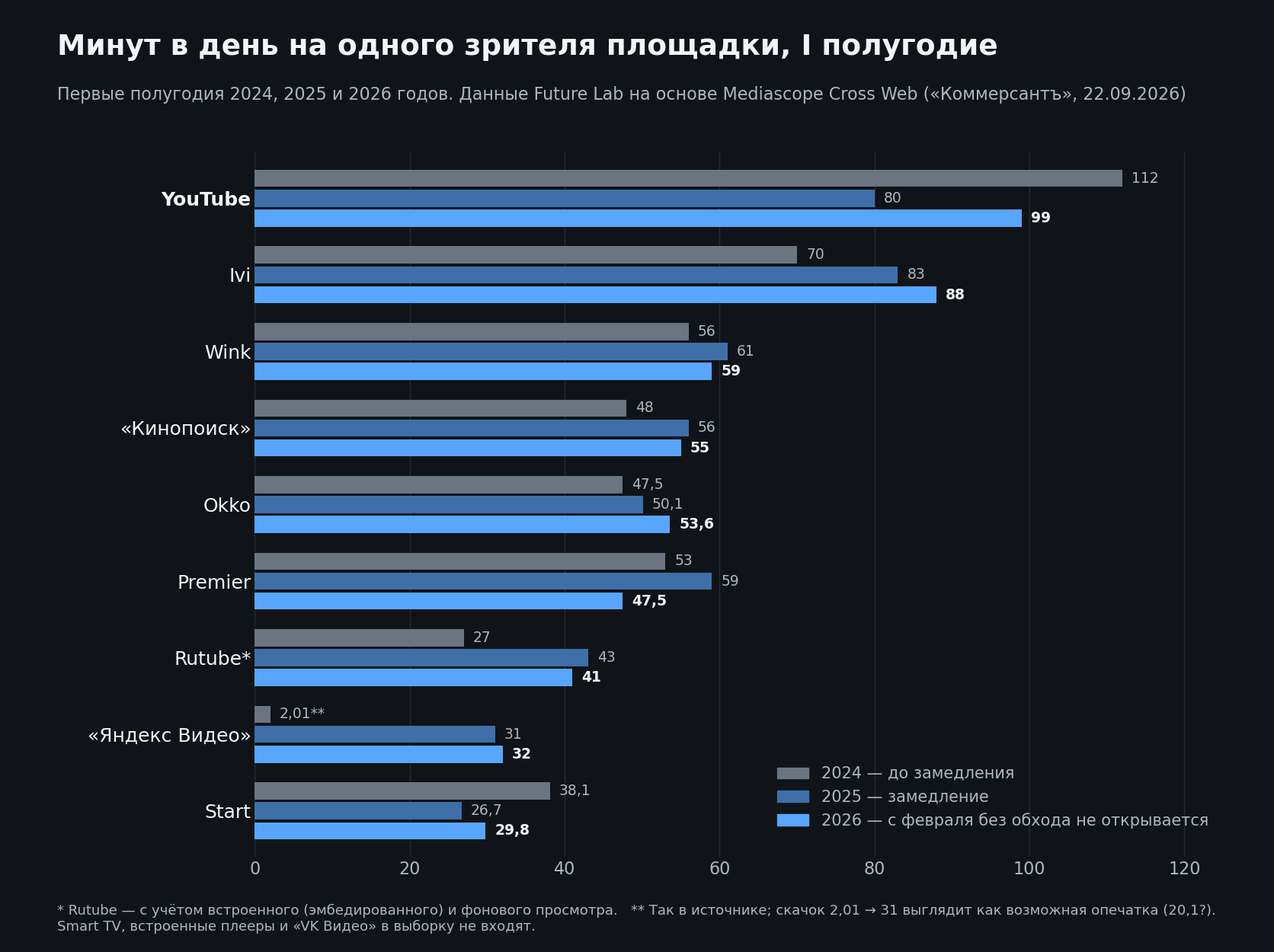
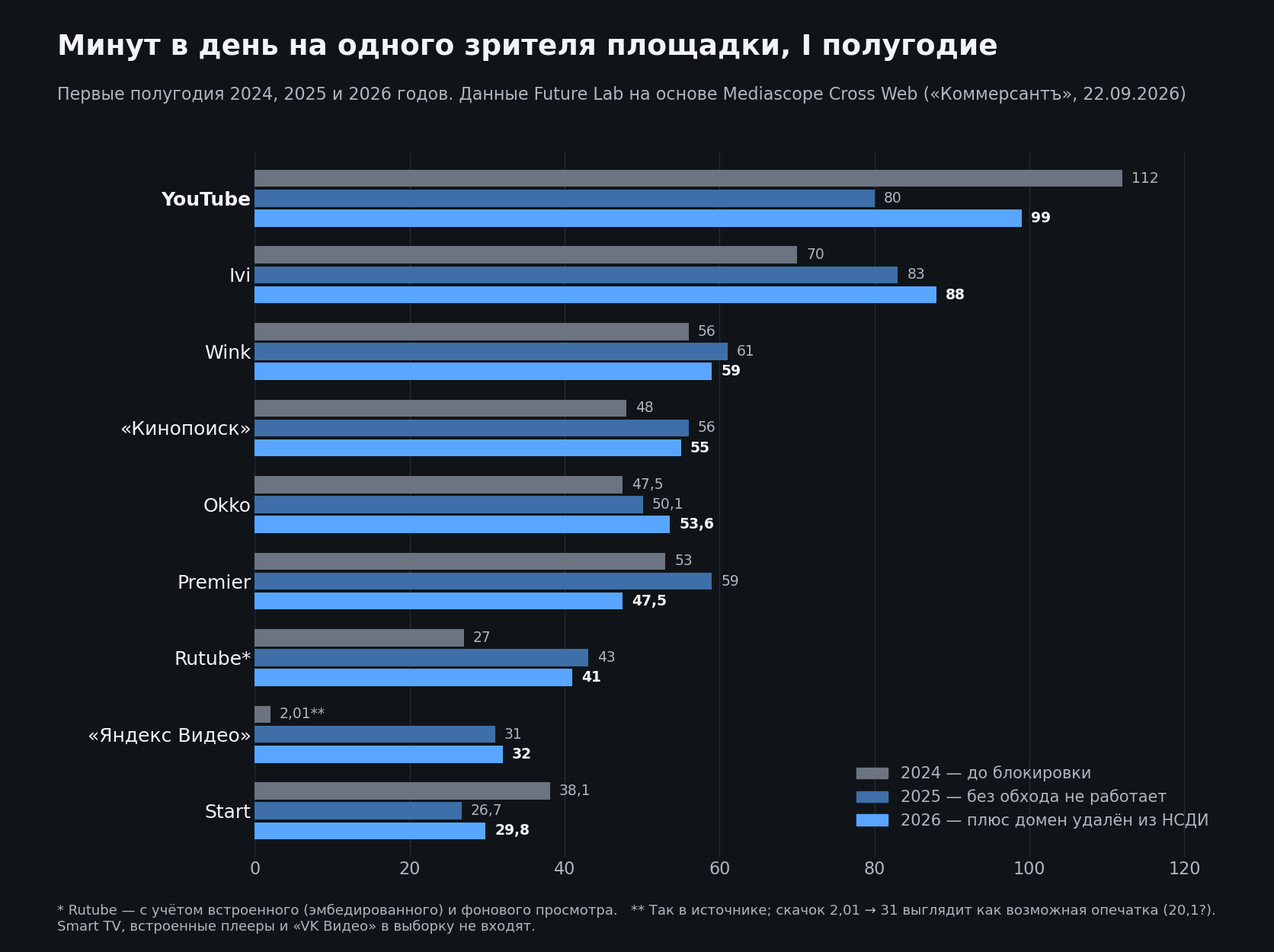
YouTube в I полугодии 2026: блокировка с августа 2024, а не с февраля 2026
YouTube в России без обхода не работает с августа 2024 года; удаление домена из НСДИ 10 февраля 2026 — дополнительный слой, а не начало блокировки. Исправлены шапка, хронология, итог и гипотеза о составе аудитории (оба полугодия, 2025 и 2026, прошли под блокировкой), легенда диаграммы по площадкам и ссылка из заметки о НСДИ.

Changed region(s): [[0.5909, 0.78, 0.9641, 0.8736]]

diff --git a/DPI/youtube-video-consumption-h1-2026.md b/DPI/youtube-video-consumption-h1-2026.md
@@ -28,14 +28,14 @@ link: https://www.kommersant.ru/doc/8971978
 ![[youtube-h1-2026-header.webp]]
 
 > [!info] О чём заметка
-> 22 сентября 2026 года «Коммерсантъ» опубликовал исследование Future Lab: в первом полугодии 2026 года зрители YouTube в России проводили на нём в среднем 99 минут в день, на 24% больше, чем годом раньше. При этом с февраля 2026 года YouTube в России без обхода блокировки не открывается. Здесь разобраны цифры по всем площадкам, спор Rutube с исследователями и главный вопрос, который задают читатели: как вообще можно посчитать YouTube, если его смотрят через VPN или Zapret. Как именно YouTube отрезали в феврале, описано в заметке [[DPI/nsdi-domain-removal-2026|НСДИ как рубильник]].
+> 22 сентября 2026 года «Коммерсантъ» опубликовал исследование Future Lab: в первом полугодии 2026 года зрители YouTube в России проводили на нём в среднем 99 минут в день, на 24% больше, чем годом раньше. При этом с августа 2024 года YouTube в России без обхода блокировки не открывается. Здесь разобраны цифры по всем площадкам, спор Rutube с исследователями и главный вопрос, который задают читатели: как вообще можно посчитать YouTube, если его смотрят через VPN или Zapret. Как в феврале 2026 года к блокировке добавилось удаление домена YouTube из национальной DNS, описано в заметке [[DPI/nsdi-domain-removal-2026|НСДИ как рубильник]].
 
 > [!warning] Статус данных
 > Все цифры по площадкам взяты из исследования Future Lab в пересказе «Коммерсанта» (22 сентября 2026) и перепечаток CNews, RB.ru, iXBT. Сам отчёт Future Lab публично не опубликован, поэтому точные формулировки показателей известны только по газетному тексту и таблице к нему. Future Lab входит в российскую коммуникационную группу Starlink (к спутниковому интернету SpaceX отношения не имеет). Rutube и VK с оценкой спорят и приводят собственные данные того же измерителя Mediascope. Описание методики Mediascope взято из публичных материалов компании (2017 и 2022 годы). Как устроен измеритель в 2026 году, в деталях не раскрывается.
 
 ## TL;DR
 
-- **YouTube вырос:** в первом полугодии 2026 года 99 минут в день на одного зрителя, +24% к 2025 году. Годом раньше, во время замедления, показатель упал на 28,6% (со 112 до 80 минут).
+- **YouTube вырос:** в первом полугодии 2026 года 99 минут в день на одного зрителя, +24% к 2025 году. Годом раньше, в первый полный период блокировки, показатель упал на 28,6% (со 112 до 80 минут).
 - **Весь рост рынка дал YouTube:** на крупнейших видеоплощадках среднее время выросло на 6%, до 87,7 минуты, а без YouTube упало бы на 5%. В 2025 году картина была зеркальной: −27% в целом и +32% без YouTube.
 - **Российские площадки неоднородны:** Rutube с учётом встроенных просмотров впервые просел на 4,7% (до 41 минуты), Premier на 20%, Wink и «Кинопоиск» немного. Растут Start, Okko, Ivi и «Яндекс Видео».
 - **Rutube и VK не согласны:** Rutube по данным Mediascope в расчёте на всё население заявляет рост на 9,1%, VK про отдельное приложение «VK Видео» говорит о +65% и почти 100 минутах. Все три цифры могут быть верны одновременно, потому что это разные показатели.
@@ -44,13 +44,13 @@ link: https://www.kommersant.ru/doc/8971978
 
 ## Что произошло с YouTube в 2024–2026 годах
 
-Чтобы понять цифры, нужна хронология. Первое полугодие 2024 года — последний период, когда YouTube в России работал нормально: 112 минут в день на зрителя, больше, чем у любой другой площадки в исследовании. Летом 2024 года началось замедление: провайдерское оборудование ТСПУ (Технические средства противодействия угрозам, аппаратура фильтрации трафика у операторов) стало искусственно душить скорость загрузки видео, и без средств обхода ролики грузились рывками или не грузились вовсе.
+Чтобы понять цифры, нужна хронология. Первое полугодие 2024 года — последний период, когда YouTube в России работал нормально: 112 минут в день на зрителя, больше, чем у любой другой площадки в исследовании. Летом 2024 года началось замедление: провайдерское оборудование ТСПУ (Технические средства противодействия угрозам, аппаратура фильтрации трафика у операторов) стало искусственно душить скорость загрузки видео. С августа 2024 года YouTube в России без обхода блокировки фактически не работает: официально это называли «замедлением», но на деле ролики без VPN или Zapret не грузятся.
 
-Первое полугодие 2025 года целиком пришлось на замедление. Время просмотра YouTube упало до 80 минут (−28,6%), а российские площадки получили приток зрителей: Rutube вырос с 27 до 43 минут, «Яндекс Видео», по таблице исследования, с почти нуля до 31 минуты.
+Первое полугодие 2025 года стало первым полным полугодием, когда YouTube работал только в обход блокировки. Время просмотра YouTube упало до 80 минут (−28,6%), а российские площадки получили приток зрителей: Rutube вырос с 27 до 43 минут, «Яндекс Видео», по таблице исследования, с почти нуля до 31 минуты.
 
-10 февраля 2026 года YouTube перестал открываться совсем. Домен видеохостинга убрали из НСДИ (Национальной системы доменных имён, государственной DNS-инфраструктуры), и у абонентов, которые пользуются DNS провайдера, браузер выдаёт ошибку «сайт не найден». Механика и последствия разобраны в [[DPI/nsdi-domain-removal-2026|заметке о НСДИ]]. Власти объясняли ограничения «нарушением законодательства» и «неуважением» со стороны YouTube, ссылаясь на блокировку на площадке более 200 провластных каналов.
+10 февраля 2026 года к блокировке добавился ещё один слой. Домен видеохостинга убрали из НСДИ (Национальной системы доменных имён, государственной DNS-инфраструктуры), и у абонентов, которые пользуются DNS провайдера, браузер выдаёт ошибку «сайт не найден»: теперь не открывается даже главная страница, а не только видео. Механика и последствия разобраны в [[DPI/nsdi-domain-removal-2026|заметке о НСДИ]]. Власти объясняли ограничения «нарушением законодательства» и «неуважением» со стороны YouTube, ссылаясь на блокировку на площадке более 200 провластных каналов.
 
-Первое полугодие 2026 года, таким образом, почти полностью пришлось на период, когда YouTube без обхода блокировки недоступен: VPN, [[Zapret2/Zapret2|Zapret 2]] или правка DNS. И именно в этот период время просмотра выросло до 99 минут.
+Таким образом, и первое полугодие 2025-го, и первое полугодие 2026 года YouTube был доступен только в обход блокировки: через VPN, [[Zapret2/Zapret2|Zapret 2]] или с правкой DNS. Условия доступа в двух периодах почти одинаковы, но в 2025 году время просмотра упало до 80 минут, а в 2026-м выросло до 99.
 
 ## Цифры по площадкам
 
@@ -64,7 +64,7 @@ link: https://www.kommersant.ru/doc/8971978
 
 ![[youtube-h1-2026-dynamics.png]]
 
-Проще говоря: после блокировки YouTube его зрители не стали смотреть меньше. Те, кто продолжил им пользоваться, в 2026 году проводили на нём больше времени, чем в 2025-м, хотя до уровня 2024 года (112 минут) показатель не вернулся.
+Проще говоря: второй год блокировки оказался для YouTube лучше первого. Те, кто продолжил им пользоваться, в 2026 году проводили на нём больше времени, чем в 2025-м, хотя до уровня 2024 года (112 минут) показатель не вернулся.
 
 ## Весь рынок держится на YouTube
 
@@ -72,7 +72,7 @@ link: https://www.kommersant.ru/doc/8971978
 
 ![[youtube-h1-2026-market-swing.png]]
 
-Эти две пары чисел описывают один процесс с разных сторон. В 2025 году YouTube замедлили, его зрители смотрели меньше, и это тянуло общий показатель вниз, а российские площадки росли за счёт тех, кто искал замену. В 2026 году YouTube снова набирает время, а остальные площадки в сумме теряют.
+Эти две пары чисел описывают один процесс с разных сторон. В 2025 году YouTube без обхода уже не работал, его зрители смотрели меньше, и это тянуло общий показатель вниз, а российские площадки росли за счёт тех, кто искал замену. В 2026 году YouTube снова набирает время, а остальные площадки в сумме теряют.
 
 Отраслевые эксперты, опрошенные «Коммерсантом», объясняют это так. Гендиректор Sky Rocket Agency Азалия Идрисова называет рост 2024–2025 годов неорганическим: аудитория уходила с замедленного YouTube и «пробовала всё подряд». Руководитель продуктового направления «Рейтинга Рунета» Александр Туник связывает возврат к YouTube с объёмом качественного контента и алгоритмами рекомендаций, которые у российских платформ, по его словам, «не соответствуют ожиданиям пользователей». Директор по Digital и Social Media агентства PR Partner Дамир Фейзуллов говорит, что рынок достиг насыщения и площадки теперь перераспределяют между собой уже существующее время просмотра. Это мнения, а не измерения: исследование показывает, что время на YouTube выросло, но не показывает почему.
 
@@ -120,12 +120,12 @@ Mediascope — главный российский измеритель меди
 
 Главное ограничение — показатель считается на одного зрителя площадки. Он отвечает на вопрос «сколько смотрит тот, кто смотрит», но не на вопрос «сколько людей смотрит». Судя по опубликованным данным, Future Lab охват YouTube (долю россиян, которые им пользуются) не приводит, поэтому рост на 24% нельзя читать как «зрителей стало на четверть больше».
 
-Есть правдоподобное объяснение, при котором время на зрителя растёт даже без возвращения аудитории. После полной блокировки в феврале 2026 года эпизодические зрители, которым неудобно настраивать обход, могли перестать открывать YouTube, а остались те, кто смотрит его много и готов ради этого пользоваться VPN или Zapret. Среднее по оставшимся в таком случае растёт само. Это гипотеза: чтобы её проверить, нужны данные об охвате, которых в опубликованной части исследования нет. Эксперты «Коммерсанта» говорят о возвращении зрителей к YouTube, но на измерение это утверждение не опирается.
+Есть правдоподобное объяснение, при котором время на зрителя растёт даже без возвращения аудитории. За полтора года блокировки эпизодические зрители, которым неудобно настраивать обход, могли перестать открывать YouTube, а остались те, кто смотрит его много и готов ради этого пользоваться VPN или Zapret. К 2026 году у таких зрителей обход мог стать привычной и налаженной частью жизни, а не ежедневной борьбой, как в первые месяцы. Среднее по оставшимся в таком случае растёт само. Это гипотеза: чтобы её проверить, нужны данные об охвате, которых в опубликованной части исследования нет. Эксперты «Коммерсанта» говорят о возвращении зрителей к YouTube, но на измерение это утверждение не опирается.
 
 Отдельный фактор — мобильный интернет. Wink в комментарии «Коммерсанту» связывает просадку мобильных просмотров с ограничениями мобильного интернета «для обеспечения безопасности». При таких отключениях оператор часто оставляет доступ только к разрешённым сервисам (подробнее — [[Белые списки|что такое белые списки]]), и в эти часы нельзя посмотреть ни YouTube, ни часть российских площадок.
 
 > [!summary] Итог
-> По данным Future Lab на основе Mediascope, в первом полугодии 2026 года зрители YouTube в России проводили на нём 99 минут в день, на 24% больше, чем годом раньше, несмотря на то что с февраля он не открывается без обхода блокировки. Весь рост видеопотребления на крупнейших площадках дал YouTube: без него показатель упал бы на 5%. Обход блокировки замеру не мешает, потому что Mediascope смотрит на устройства участников панели, а не на сетевой трафик. Сколько людей смотрит YouTube, эти данные не показывают, а Smart TV в расчёт не входил.
+> По данным Future Lab на основе Mediascope, в первом полугодии 2026 года зрители YouTube в России проводили на нём 99 минут в день, на 24% больше, чем годом раньше, несмотря на то что с августа 2024 года он не работает без обхода блокировки. Весь рост видеопотребления на крупнейших площадках дал YouTube: без него показатель упал бы на 5%. Обход блокировки замеру не мешает, потому что Mediascope смотрит на устройства участников панели, а не на сетевой трафик. Сколько людей смотрит YouTube, эти данные не показывают, а Smart TV в расчёт не входил.
 
 ## Источники
 
@@ -141,7 +141,7 @@ Mediascope — главный российский измеритель меди
 
 ## 📚 См. также
 
-- [[DPI/nsdi-domain-removal-2026|НСДИ как рубильник]] — как в феврале 2026 года YouTube перестал открываться: домен убрали из национальной DNS.
+- [[DPI/nsdi-domain-removal-2026|НСДИ как рубильник]] — как в феврале 2026 года к блокировке YouTube добавилось удаление домена из национальной DNS.
 - [[DPI/tspu-dns-nsdi-dnat-august-2026|Перехват DNS на ТСПУ]] — продолжение истории: с августа 2026 года чужой DNS заворачивают на НСДИ.
 - [[Zapret/youtube|Как обойти блокировку YouTube в Zapret]] — какие области обхода включать, если сайт или видео не грузятся.
 - [[Zapret2/Zapret2|Zapret 2]] — инструмент обхода DPI без VPN.

diff --git a/DPI/nsdi-domain-removal-2026.md b/DPI/nsdi-domain-removal-2026.md
@@ -143,7 +143,7 @@ host -t A whatsapp.com a.res-nsdi.ru
 ## 📚 См. также
 
 - [[DPI/tspu-dns-nsdi-dnat-august-2026|Перехват DNS на ТСПУ (август 2026)]] — продолжение сюжета: запросы к чужим резолверам стали принудительно заворачивать на НСДИ
-- [[DPI/youtube-video-consumption-h1-2026|YouTube в I полугодии 2026: +24% вопреки блокировке]] — что стало со временем просмотра YouTube после февральской блокировки, по данным Future Lab
+- [[DPI/youtube-video-consumption-h1-2026|YouTube в I полугодии 2026: +24% вопреки блокировке]] — сколько смотрели YouTube в первом полугодии 2026 года, по данным Future Lab
 - [[DPI/google-dns-8888-block-july-2026|Инцидент 3 июля 2026: блокировка 8.8.8.8 по TCP]] — удар по шифрованному DNS Google
 - [[Zapret/doh-cherez-zapret|Поможет ли zapret при блокировке DoH]] — когда шифрованный резолвер можно пробить стратегиями
 - [[DPI/rkn-vpn-2030-roadmap|Курс на 2030]] — официальные планы по фильтрации, в которые встраивается эта история
